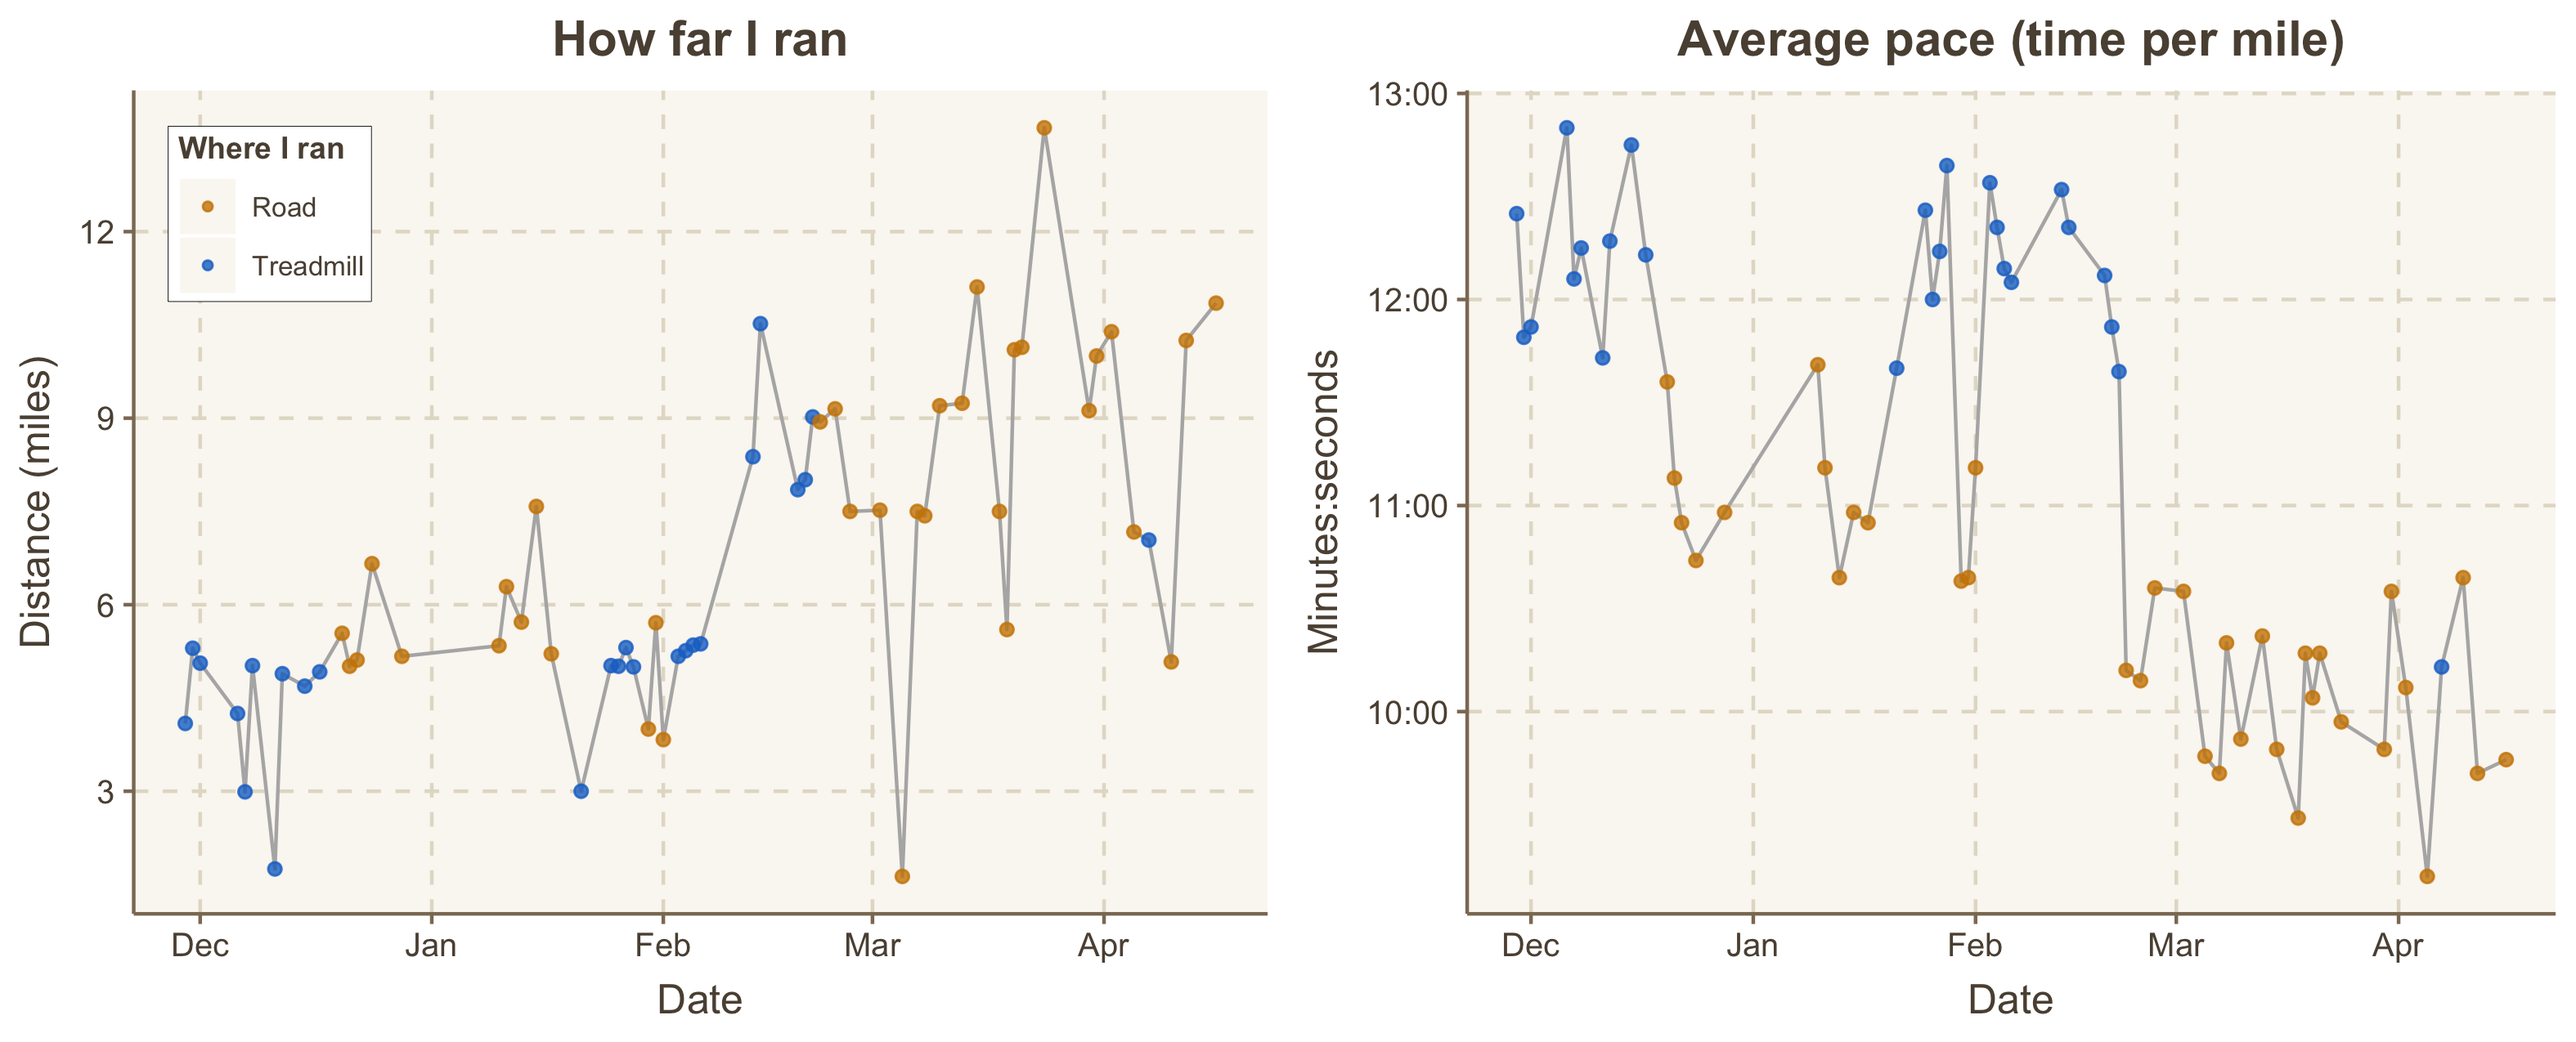
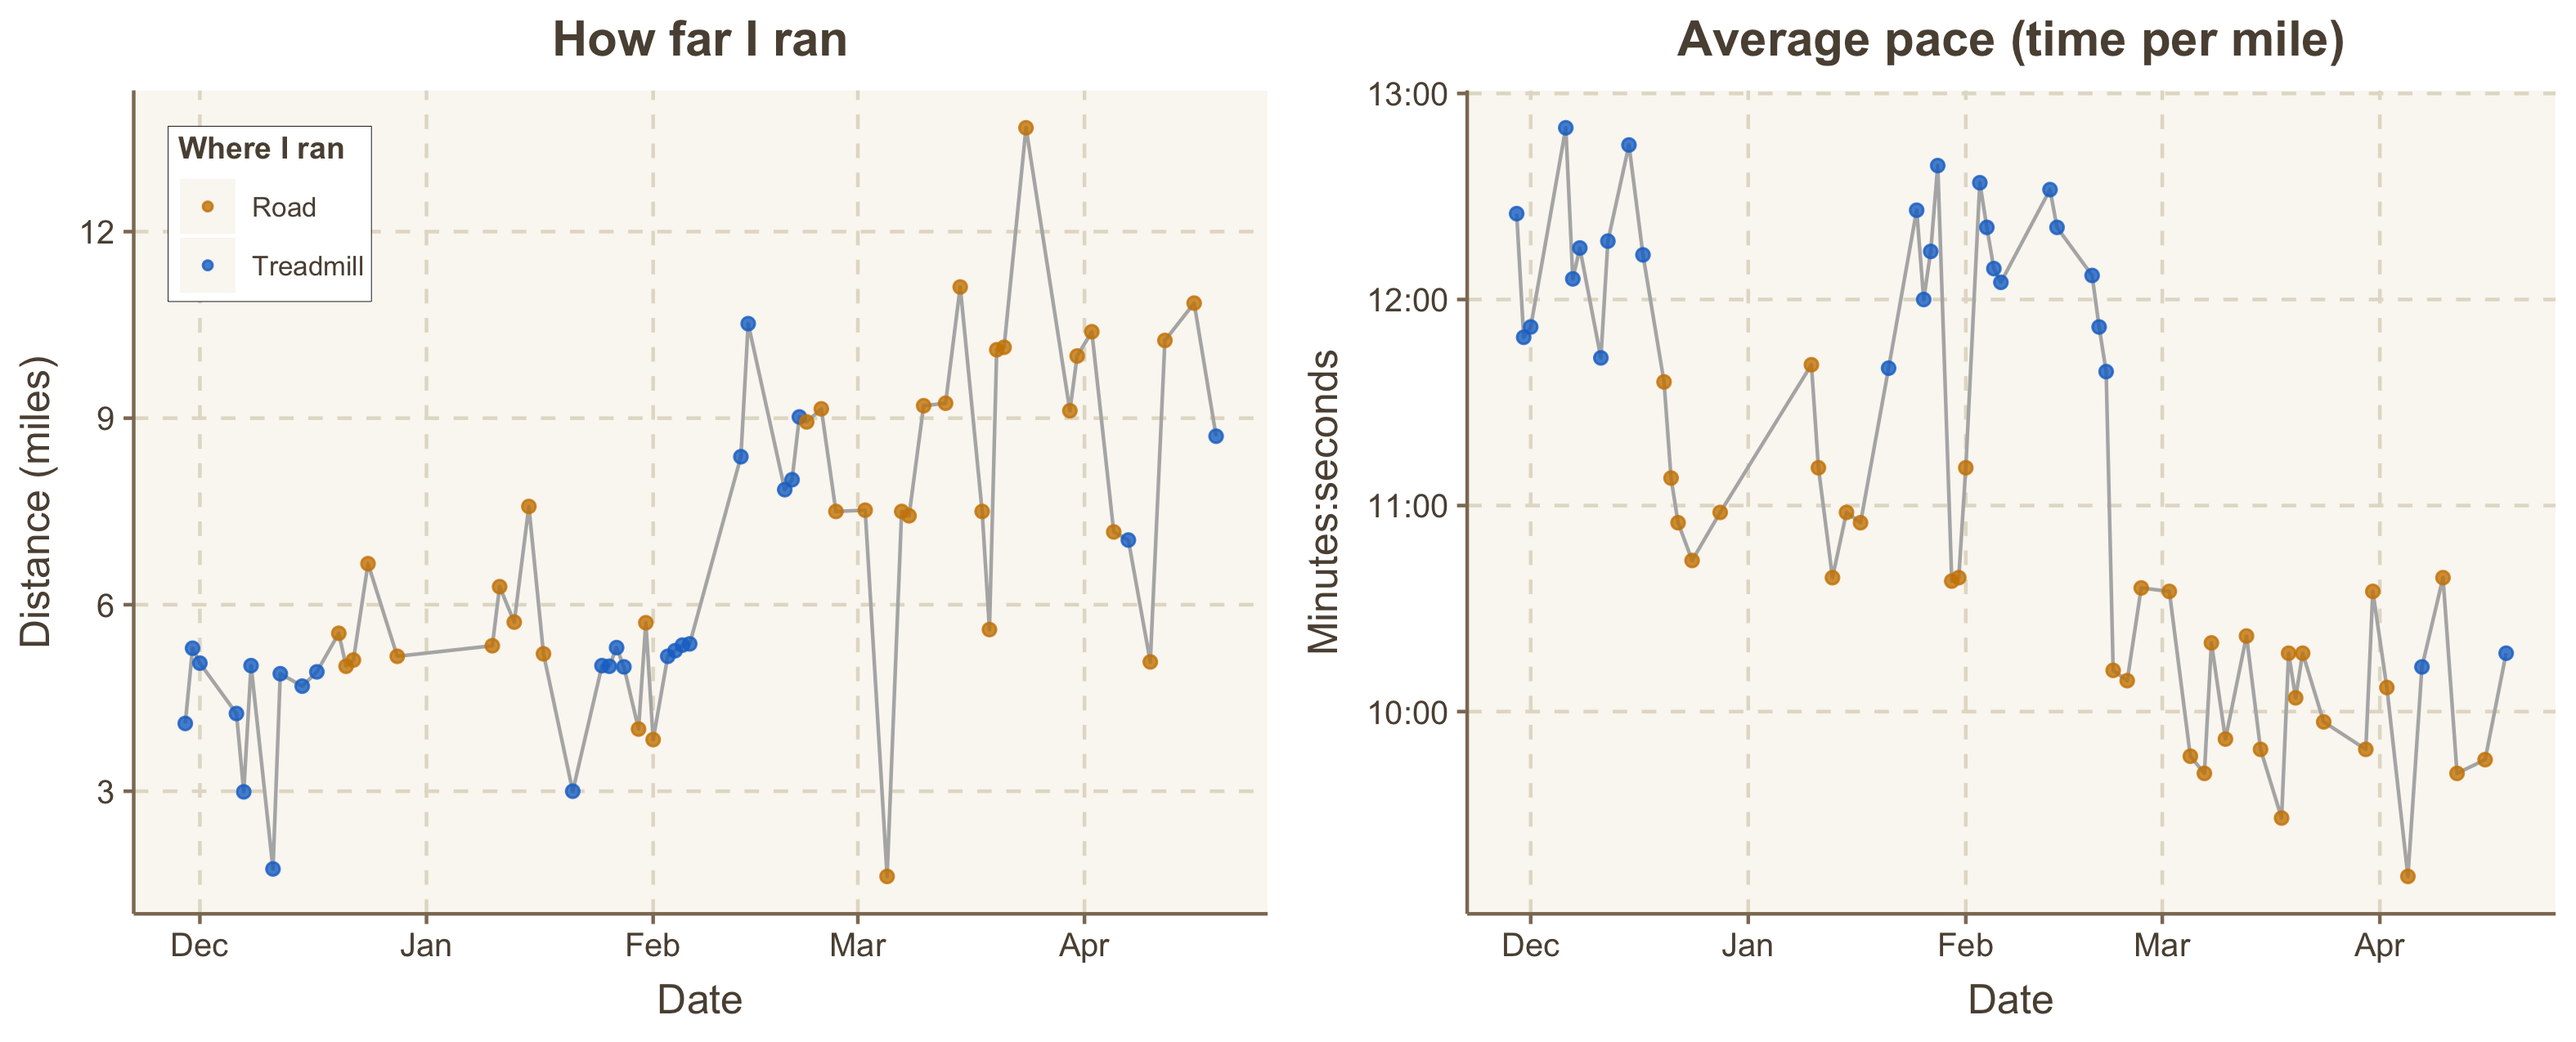
4/19/22

diff --git a/README.md b/README.md
@@ -25,7 +25,7 @@ ggarrange(p1, p2, nrow=1)
 sum(runningData$Miles)
 ```
 
-    ## [1] 398.53
+    ## [1] 407.24
 
 Average distance during the last 10 runs:
 
@@ -33,4 +33,4 @@ Average distance during the last 10 runs:
 mean(tail(runningData$Miles, 10))
 ```
 
-    ## [1] 9.371
+    ## [1] 9.228
